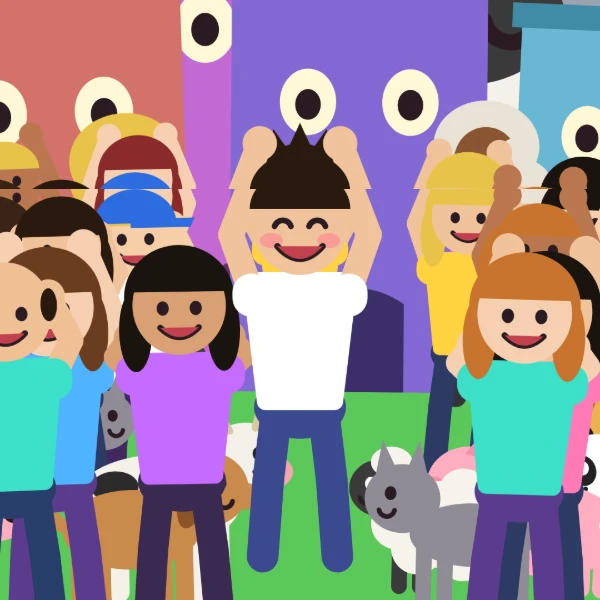
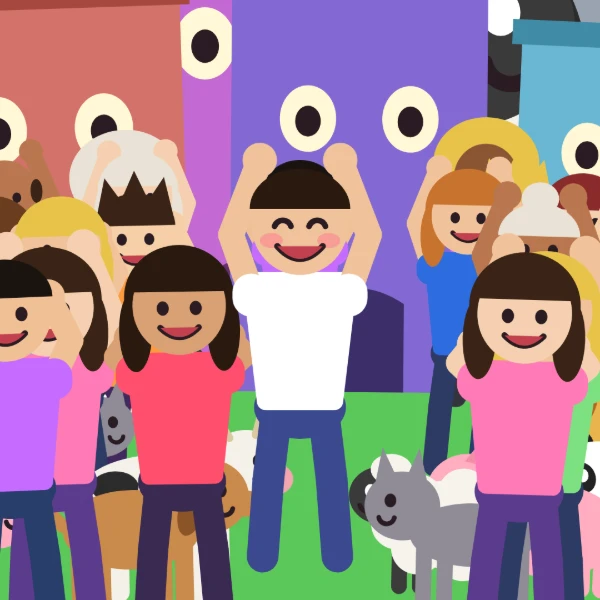
1分で楽しくなれるゲームに改題: 合計100タップで展開を約2倍速に、サムネのつなぎ目をなくす
Claude-Session: https://claude.ai/code/session_0187NX6AW7WzeTFopxAFb1b7

diff --git a/shisaku-i87mixcr/index.html b/shisaku-i87mixcr/index.html
@@ -3,9 +3,9 @@
 <head>
 <meta charset="UTF-8">
 <meta name="robots" content="noindex,nofollow">
-<meta name="preview-version" content="norinori-1792711426037">
+<meta name="preview-version" content="norinori-1792748098215">
 <meta name="viewport" content="width=device-width, initial-scale=1, maximum-scale=1, user-scalable=no">
-<title>【プレビュー】100秒で楽しくなれるゲーム</title>
+<title>【プレビュー】1分で楽しくなれるゲーム</title>
 <style>
   html, body { margin: 0; height: 100%; background: #000; overflow: hidden; overscroll-behavior: none; }
   * { -webkit-tap-highlight-color: transparent; }
@@ -32,16 +32,16 @@
   <button id="start" type="button">START</button>
   <button id="share-button" type="button" aria-label="Xでシェア" hidden></button>
 </div></div>
-<script src="../games/start.js?v=norinori-1792711426037"></script>
-<script src="../games/view.js?v=norinori-1792711426037"></script>
-<script src="../games/audio.js?v=norinori-1792711426037"></script>
-<script src="../games/lang.js?v=norinori-1792711426037"></script>   <!-- 日本語以外のブラウザでは英語 -->
-<script src="../games/share.js?v=norinori-1792711426037"></script>
-<script src="../games/result-actions.js?v=norinori-1792711426037"></script>
-<script src="../games/action-icons.js?v=norinori-1792711426037"></script>
-<script src="../games/pad.js?v=norinori-1792711426037"></script>   <!-- ジョイパッドと、絵の外のタップ -->
+<script src="../games/start.js?v=norinori-1792748098215"></script>
+<script src="../games/view.js?v=norinori-1792748098215"></script>
+<script src="../games/audio.js?v=norinori-1792748098215"></script>
+<script src="../games/lang.js?v=norinori-1792748098215"></script>   <!-- 日本語以外のブラウザでは英語 -->
+<script src="../games/share.js?v=norinori-1792748098215"></script>
+<script src="../games/result-actions.js?v=norinori-1792748098215"></script>
+<script src="../games/action-icons.js?v=norinori-1792748098215"></script>
+<script src="../games/pad.js?v=norinori-1792748098215"></script>   <!-- ジョイパッドと、絵の外のタップ -->
 <script>
-/* 100秒で楽しくなれるゲーム
+/* 1分で楽しくなれるゲーム
 
    書き換えるところの目印は3つ。
      ▼UPDATE … 進行と入力
@@ -132,7 +132,7 @@
   var OUTRO = 200;                             /* ここから地球から男へ寄っていき、音楽も落ち着く */
   var thumbZ = 1;                             /* サムネ撮影のときだけ最後の寄りを弱める */
   var GOAL = 220;                              /* ここまで進んだら締め */
-  var TAPK = GOAL / 200;                       /* 1タップの進み。実際のタップは合計200回 */
+  var TAPK = GOAL / 100;                       /* 1タップの進み。実際のタップは合計100回 */
   var R = 3000;                                /* 地面は大きな丸（地球） */
   var EC = R - 200;                            /* 丸の中心。てっぺんは y=-200 で、奥の列もみな地面の上に立つ */
   var fx, level, taps, swing, swingV, swingDir, happy, endT, smileT, cheered, lastTap, members, notes, confetti;
@@ -556,7 +556,7 @@
     /* 1〜7 その段へ、8 ゴール直前、9 結果 */
     if (state !== S.PLAY) return;
     if (n >= 1 && n <= 7) { taps = STEPS[n] - 1; down(); }
-    if (n === 8) { taps = GOAL - 2; down(); }
+    if (n === 8) { taps = GOAL - 2 * TAPK; down(); }
     if (n === 9) { taps = GOAL - 1; down(); endT = T - 2.5; smileT = T; }
   }
 
@@ -575,7 +575,7 @@
   });
 
   function doShare() {
-    window.zResultActions.x({ text: zT("#100秒で楽しくなれるゲーム　で楽しくなった", "#GetHappyIn100Seconds made me happy") });
+    window.zResultActions.x({ text: zT("#1分で楽しくなれるゲーム　で楽しくなった", "#GetHappyInOneMinute made me happy") });
   }
 
   /* ============ 描画 ============ */
@@ -1134,7 +1134,7 @@
   /* サムネ撮影用：指定のタップ数まで進めて、音符や輪を消す（UIなし） */
   window.__thumbnail = function (o) {
     startButton.hidden = true; newRound(); thumbZ = o.zoom || 1;
-    for (var i = 0; i < (o.taps || 155); i++) { down(); up(); window.__probe.step(o.per || 6); }
+    for (var i = 0; i < (o.taps || 78); i++) { down(); up(); window.__probe.step(o.per || 6); }
     window.__probe.step(o.wait || 120);
     notes = []; fx = []; confetti = [];
   };
@@ -1182,11 +1182,11 @@
 /* 制作中の固定リンクでは、F9の録画パネルを使えるようにする */
 if (document.head && !/[?&]recorder-cli=1(?:&|$)/.test(location.search)) {
   var recorderScript = document.createElement("script");
-  recorderScript.src = /^(localhost|127\.0\.0\.1)$/.test(location.hostname) ? "../games/_tools/recorder-ui.js?v=norinori-1792711426037" : "./recorder-ui.js?v=norinori-1792711426037";
+  recorderScript.src = /^(localhost|127\.0\.0\.1)$/.test(location.hostname) ? "../games/_tools/recorder-ui.js?v=norinori-1792748098215" : "./recorder-ui.js?v=norinori-1792748098215";
   document.head.appendChild(recorderScript);
 }
 </script>
-<script src="./auto-reload.js?v=norinori-1792711426037"></script>
-<script src="./preview-header.js?v=norinori-1792711426037"></script>
+<script src="./auto-reload.js?v=norinori-1792748098215"></script>
+<script src="./preview-header.js?v=norinori-1792748098215"></script>
 </body>
 </html>

diff --git a/games/norinori/index.html b/games/norinori/index.html
@@ -3,7 +3,7 @@
 <head>
 <meta charset="UTF-8">
 <meta name="viewport" content="width=device-width, initial-scale=1, maximum-scale=1, user-scalable=no">
-<title>100秒で楽しくなれるゲーム</title>
+<title>1分で楽しくなれるゲーム</title>
 <style>
   html, body { margin: 0; height: 100%; background: #000; overflow: hidden; overscroll-behavior: none; }
   * { -webkit-tap-highlight-color: transparent; }
@@ -21,12 +21,12 @@
 <!-- ゲームのOGP：道具で更新 -->
 <meta property="og:type" content="website">
 <meta property="og:site_name" content="ゾウノアシゲームズ">
-<meta property="og:title" content="100秒で楽しくなれるゲーム">
+<meta property="og:title" content="1分で楽しくなれるゲーム">
 <meta property="og:url" content="https://www.zounoashi.com/share/norinori/">
 <meta property="og:image" content="https://www.zounoashi.com/games/norinori/img/thumb.webp">
-<meta property="og:image:alt" content="100秒で楽しくなれるゲーム">
+<meta property="og:image:alt" content="1分で楽しくなれるゲーム">
 <meta name="twitter:card" content="summary">
-<meta name="twitter:title" content="100秒で楽しくなれるゲーム">
+<meta name="twitter:title" content="1分で楽しくなれるゲーム">
 <meta name="twitter:image" content="https://www.zounoashi.com/games/norinori/img/thumb.webp">
 <!-- ゲームのOGPここまで -->
 </head>
@@ -45,7 +45,7 @@
 <script src="../action-icons.js"></script>
 <script src="../pad.js"></script>   <!-- ジョイパッドと、絵の外のタップ -->
 <script>
-/* 100秒で楽しくなれるゲーム
+/* 1分で楽しくなれるゲーム
 
    書き換えるところの目印は3つ。
      ▼UPDATE … 進行と入力
@@ -136,7 +136,7 @@
   var OUTRO = 200;                             /* ここから地球から男へ寄っていき、音楽も落ち着く */
   var thumbZ = 1;                             /* サムネ撮影のときだけ最後の寄りを弱める */
   var GOAL = 220;                              /* ここまで進んだら締め */
-  var TAPK = GOAL / 200;                       /* 1タップの進み。実際のタップは合計200回 */
+  var TAPK = GOAL / 100;                       /* 1タップの進み。実際のタップは合計100回 */
   var R = 3000;                                /* 地面は大きな丸（地球） */
   var EC = R - 200;                            /* 丸の中心。てっぺんは y=-200 で、奥の列もみな地面の上に立つ */
   var fx, level, taps, swing, swingV, swingDir, happy, endT, smileT, cheered, lastTap, members, notes, confetti;
@@ -560,7 +560,7 @@
     /* 1〜7 その段へ、8 ゴール直前、9 結果 */
     if (state !== S.PLAY) return;
     if (n >= 1 && n <= 7) { taps = STEPS[n] - 1; down(); }
-    if (n === 8) { taps = GOAL - 2; down(); }
+    if (n === 8) { taps = GOAL - 2 * TAPK; down(); }
     if (n === 9) { taps = GOAL - 1; down(); endT = T - 2.5; smileT = T; }
   }
 
@@ -579,7 +579,7 @@
   });
 
   function doShare() {
-    window.zResultActions.x({ text: zT("#100秒で楽しくなれるゲーム　で楽しくなった", "#GetHappyIn100Seconds made me happy") });
+    window.zResultActions.x({ text: zT("#1分で楽しくなれるゲーム　で楽しくなった", "#GetHappyInOneMinute made me happy") });
   }
 
   /* ============ 描画 ============ */
@@ -1138,7 +1138,7 @@
   /* サムネ撮影用：指定のタップ数まで進めて、音符や輪を消す（UIなし） */
   window.__thumbnail = function (o) {
     startButton.hidden = true; newRound(); thumbZ = o.zoom || 1;
-    for (var i = 0; i < (o.taps || 155); i++) { down(); up(); window.__probe.step(o.per || 6); }
+    for (var i = 0; i < (o.taps || 78); i++) { down(); up(); window.__probe.step(o.per || 6); }
     window.__probe.step(o.wait || 120);
     notes = []; fx = []; confetti = [];
   };

diff --git a/index.html b/index.html
@@ -622,7 +622,7 @@ var GAMES = [
   {type: "lab",tags: [],id: "ski-chahan",title: "スキー炒飯",year: 2026,date: "2026-10-20",plays: null,url: "",img: "games/ski-chahan/img/thumb.webp",play: "games/ski-chahan/index.html",full: true,catch: ""},
   {type: "lab",tags: [],id: "hikkoshi",title: "引っ張り引っ越し",year: 2026,date: "2026-10-21",plays: null,url: "",img: "games/hikkoshi/img/thumb.webp",play: "games/hikkoshi/index.html",full: true,catch: "とにかく早く運ぶ"},
   {type: "lab",tags: [],id: "swim-finder",title: "最速泳法ファインダー",year: 2026,date: "2026-10-22",plays: null,url: "",img: "games/swim-finder/img/thumb.webp",play: "games/swim-finder/index.html",full: true,catch: "いちばん速い泳ぎ方をさがす"},
-  {type: "lab",tags: [],id: "norinori",title: "100秒で楽しくなれるゲーム",year: 2026,date: "2026-10-23",plays: null,url: "",img: "games/norinori/img/thumb.webp",play: "games/norinori/index.html",full: true,catch: ""},
+  {type: "lab",tags: [],id: "norinori",title: "1分で楽しくなれるゲーム",year: 2026,date: "2026-10-23",plays: null,url: "",img: "games/norinori/img/thumb.webp",play: "games/norinori/index.html",full: true,catch: ""},
   { type: "lab", tags: [], id: "random-bowling", title: "STRONG BOWL", year: 2026, date: "2026-09-12", plays: null, url: "", img: "games/random-bowling/img/thumb.webp", play: "games/random-bowling/index.html", full: true, catch: "" },
   { type: "lab", tags: [], id: "oushogi", title: "王だけ将棋", year: 2026, date: "2026-09-12", plays: null, url: "", img: "games/oushogi/img/thumb.webp", play: "games/oushogi/index.html", full: true, catch: "" },
   { type: "lab", tags: [], id: "wanko", title: "わんこボマー", year: 2026, date: "2026-09-11", plays: null, url: "", img: "games/wanko/img/thumb.webp", play: "games/wanko/index.html", full: true, catch: "女将が次から次へと出してくる爆弾を、導火線が尽きる前に解除しつづける" },
@@ -760,7 +760,7 @@ var EN = {
     "ski-chahan": "Ski Fried Rice",
     "hikkoshi": "Pull & Move",
     "swim-finder": "Fastest Swim Style Finder",
-    "norinori": "Get Happy in 100 Seconds",
+    "norinori": "Get Happy in One Minute",
     "random-bowling": "STRONG BOWL",
     "oushogi": "King-Only Shogi",
     "wanko": "Wanko Bomber",

diff --git a/share/norinori/index.html b/share/norinori/index.html
@@ -2,21 +2,21 @@
 <html lang="ja">
 <head>
 <meta charset="UTF-8">
-<title>100秒で楽しくなれるゲーム</title>
+<title>1分で楽しくなれるゲーム</title>
 <!-- ゲームのOGP：道具で更新 -->
 <meta property="og:type" content="website">
 <meta property="og:site_name" content="ゾウノアシゲームズ">
-<meta property="og:title" content="100秒で楽しくなれるゲーム">
+<meta property="og:title" content="1分で楽しくなれるゲーム">
 <meta property="og:url" content="https://www.zounoashi.com/share/norinori/">
 <meta property="og:image" content="https://www.zounoashi.com/games/norinori/img/thumb.webp">
-<meta property="og:image:alt" content="100秒で楽しくなれるゲーム">
+<meta property="og:image:alt" content="1分で楽しくなれるゲーム">
 <meta name="twitter:card" content="summary">
-<meta name="twitter:title" content="100秒で楽しくなれるゲーム">
+<meta name="twitter:title" content="1分で楽しくなれるゲーム">
 <meta name="twitter:image" content="https://www.zounoashi.com/games/norinori/img/thumb.webp">
 <!-- ゲームのOGPここまで -->
 </head>
 <body>
 <script>location.replace("/#/game/norinori" + location.search);</script>
-<noscript><a href="/#/game/norinori">100秒で楽しくなれるゲーム</a></noscript>
+<noscript><a href="/#/game/norinori">1分で楽しくなれるゲーム</a></noscript>
 </body>
 </html>
